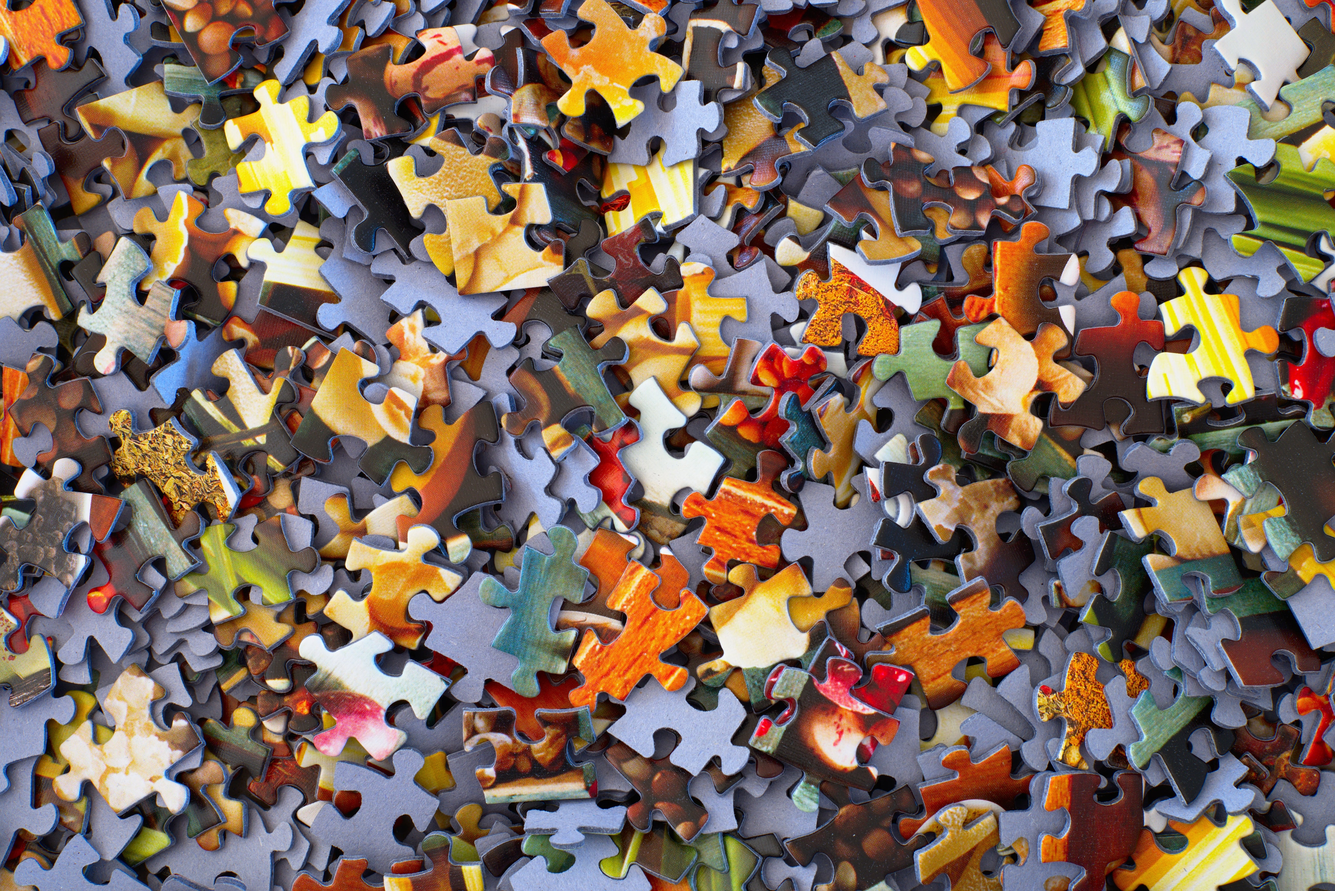
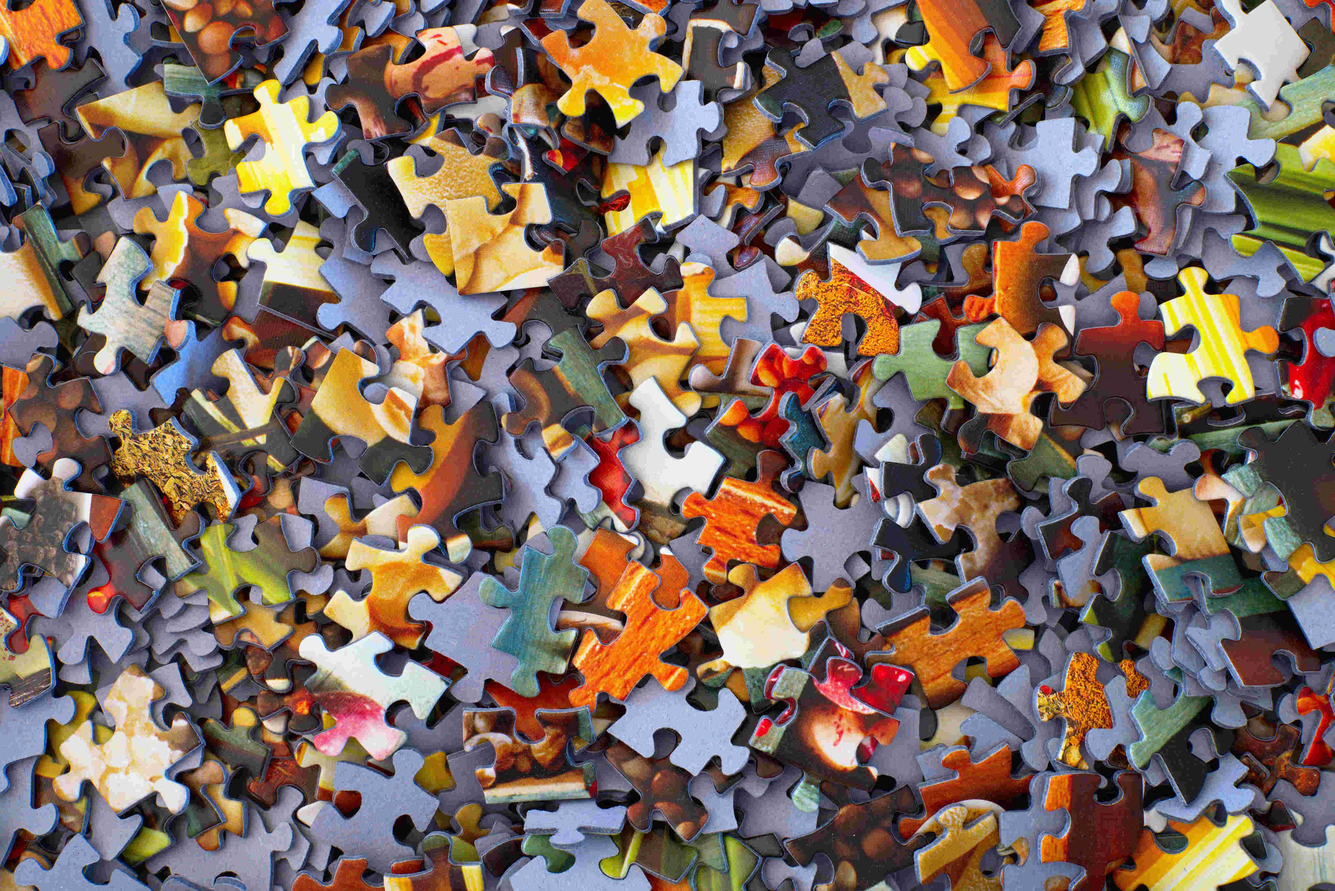
image for twitter card

diff --git a/content/post/2021/top-five-intellij-plugins.md b/content/post/2021/top-five-intellij-plugins.md
@@ -5,7 +5,7 @@ Description: ""
 author: "Cristian Silva"
 tags: ["codequality", "programming", "java", "kotlin", "maven", "IntelliJIDEA", "tools", "plugins"]
 thumbnail: "images/posts/plugins.jpg"
-images: ["images/posts/plugins.jpg"]
+images: ["images/posts/plugins-twitter-card.jpg"]
 draft: false
 ---
 
